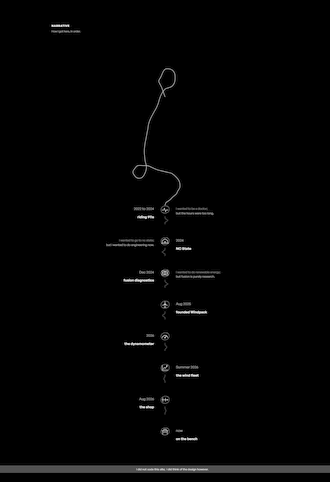
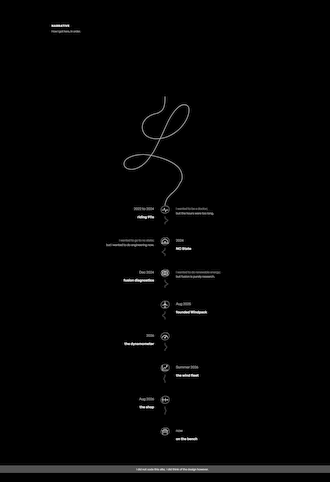
Trace the L off the reference, and catch the dot on the way down
The overture line is no longer a letter I drew. It is the centreline of the
copperplate capital in the reference image, thinned to a one pixel skeleton
and walked end to end, so the shape is the reference's exactly and the only
things left to decide are how big it sits and where.

The walk was the work. The letter crosses itself twice, so the skeleton is a
graph rather than a thread and a walk that just follows pixels turns off at
the first crossing it meets. Neighbour count is no help finding those
crossings: an eight connected skeleton gives a plain diagonal run three
neighbours, so most of the letter looks like a junction and the real ones do
not stand out. The crossing number does work. And a crossing does not thin to
a single pixel either, it comes out as two forks a few pixels apart with a
stub between them, so cutting only the marked pixels leaves the four arms
still joined through the stub. Taking everything within a few pixels of a
fork is what makes the X fall into arms, and the arms can then be paired by
which two carry straight on through.

The two strokes that are not the letter are one cubic each. An intermediate
knot is what put a wiggle in both: with the ends already carrying the
letter's own tangents there is nothing for a middle knot to do except
disagree. Placing the letter is not free either. Its entry tip has to sit
about 30px left of the dot, because the reference starts on a heading of 163
[…]

Changed region(s): [[0.3636, 0.1245, 0.5758, 0.4046], [0.4848, 0.4046, 0.5152, 0.4357]]

diff --git a/assets/css/site.css b/assets/css/site.css
@@ -680,8 +680,8 @@ body.split { overflow: hidden; }
 
    The whole sequence hangs off the moment they meet, which is 48% of 3.2s.
    Move that and the pop, the bounce, the draw and the run all have to move
-   with it, and the draw has to stay pinned to the 69% keyframe of the bounce
-   or the pen starts before the dot has left the ground.
+   with it, and the draw has to stay pinned to the END of the bounce, because
+   that is the frame the dot is caught on, still falling.
 
    Stage units are CSS pixels on purpose: the svg is drawn at its viewBox size
    so offset-path can use the very same d and land on it exactly.
@@ -746,7 +746,7 @@ body.split { overflow: hidden; }
 .ov-path {
   stroke-dasharray: 100;
   stroke-dashoffset: 100;
-  animation: ov-draw 6.4s cubic-bezier(0.25, 0.4, 0.65, 0.85) 3.83s both;
+  animation: ov-draw 6.4s cubic-bezier(0.32, 0.22, 0.62, 0.9) 4.64s both;
 }
 
 @keyframes ov-draw { to { stroke-dashoffset: 0; } }
@@ -765,16 +765,18 @@ body.split { overflow: hidden; }
   /* offset-anchor already puts the middle of this box on the line. the old
      -7px margin that used to do that job by hand is still a shift on top of
      it, which is why the dot rode 10px up and left of its own pen tip. */
-  offset-path: path("M200 150 C 200 150, 193.2 131.3, 190.6 123.9 C 188.7 118.6, 187.7 114.9, 185.6 110 C 183.1 104.2, 178.4 95.9, 176.2 91.5 C 175 89.1, 174.1 87.8, 173.5 85.9 C 173 84.1, 172.5 82.7, 172.9 80.4 C 173.7 76.1, 179.1 69.1, 182.1 63 C 185.3 56.4, 188.4 47.6, 191.3 42.2 C 193.3 38.5, 194.9 35.6, 197 33.2 C 198.7 31.3, 199.9 29.6, 202.5 28.7 C 206.9 27.2, 216.9 27.7, 222.5 29.2 C 227 30.5, 230.7 32.7, 233.9 35.8 C 237.3 39, 240.2 43.4, 242 48.4 C 244.1 54.4, 244.3 63.1, 244.2 69.6 C 244.2 75.2, 243.4 80.7, 242.2 85.2 C 241.3 88.8, 240.3 91.4, 238.4 94.5 C 236 98.4, 232.4 103, 228 106 C 222.9 109.4, 213.8 111.1, 208.8 113 C 205.5 114.3, 203.5 114.1, 200.7 116.3 C 195.7 120.2, 188.9 130.9, 184.7 138.6 C 180.7 145.7, 178.3 153.3, 175.8 160.5 C 173.5 167.2, 172.3 173.8, 170.1 180.2 C 167.8 186.6, 165.2 192.6, 162.1 198.9 C 158.7 205.8, 154.3 212.6, 150.3 219.9 C 146 227.8, 140.9 236.3, 137.3 244.6 C 133.7 252.6, 130.5 261.1, 128.5 269.1 C 126.6 276.5, 126.2 283.9, 125 291 C 123.8 297.7, 122.4 304, 121.1 310.6 C 119.9 317.5, 118.8 324.2, 117.4 331.5 C 115.9 339.5, 113.8 348.2, 112.5 356.9 C 111.2 365.9, 110 375.7, 109.8 384.7 C 109.6 393.2, 110.3 401.6, 111 409.5 C 111.6 416.8, 112.2 423.6, 113.5 430.4 C 114.6 437.1, 117.4 443.9, 118.2 449.9 C 118.8 454.8, 119.3 458.5, 118.6 463.7 C 117.6 470.8, 113.7 481.9, 110.6 488.2 C 108.3 492.7, 105.7 496.1, 103.1 498.9 C 101.1 501.1, 99.5 502.8, 96.9 504 C 93.7 505.4, 88.6 506.2, 84.8 505.8 C 81.4 505.6, 78.5 504.9, 75.4 502.8 C 70.8 499.6, 64.2 490.3, 62 486 C 60.8 483.8, 60.5 482.3, 60.3 480.4 C 60.2 478.4, 60.2 476.7, 61.1 474.3 C 62.7 470, 69.4 461.5, 72.4 457.8 C 74 455.7, 75 454.5, 76.6 453.3 C 78.1 452.1, 79.1 451.1, 81.5 450.4 C 86.6 449, 99.2 450.3, 106.9 450.4 C 113.4 450.5, 118.6 449.7, 124.9 451.1 C 132.4 452.7, 141.2 458.1, 148.9 461.3 C 156 464.3, 162.5 467.6, 169.3 469.8 C 175.8 471.8, 182.1 472.7, 188.7 474.3 C 195.5 475.9, 202.5 477.6, 209.4 479.4 C 216.1 481.1, 223.1 481.3, 229.5 484.7 C 236.9 488.6, 245 496.7, 250.6 502.7 C 255 507.4, 258.6 511.4, 261.1 516.9 C 263.8 523, 265.4 532.4, 265.6 538 C 265.7 541.7, 265.5 543.9, 264.3 547.3 C 262.6 552, 257.4 558.3, 254.9 562.9 C 253 566.5, 252.9 569.3, 250.5 572.7 C 246.8 577.7, 237.9 583.7, 232.8 588.6 C 228.6 592.7, 225.7 596.6, 221.8 599.9 C 218 603.1, 212.9 605.6, 209.7 608 C 207.4 609.7, 205.4 610.7, 204 612.7 C 202.4 614.9, 201.7 618.5, 201 620.6 C 200.6 622, 200 624, 200 624");
+  offset-path: path("M200 150 C 200 150, 200.1 164.9, 199.4 172.2 C 198.6 179.6, 197.7 187.7, 195.5 194 C 193.6 199.4, 191.7 203.9, 188 208 C 183.7 213, 176.4 217.6, 169.9 220.7 C 163.5 223.7, 156 224, 149.3 226.5 C 142.4 229.1, 135 232.2, 129 236.2 C 123.3 240, 118.1 244.4, 113.9 249.6 C 109.7 254.7, 105.6 260.8, 103.5 267.2 C 101.3 273.8, 100.4 281.9, 101.2 288.9 C 102.1 296, 104.9 303.7, 108.8 309.5 C 112.5 315.2, 117.6 320.1, 123.8 323.9 C 131 328.2, 141.3 331.3, 149.9 332.7 C 157.7 334, 165.1 333.4, 173 332.7 C 181.3 332, 190.4 330.7, 198.5 328.5 C 206.2 326.4, 213.3 323.6, 220.5 320.1 C 228.2 316.4, 236.1 311.7, 243.2 306.8 C 250.1 302, 256.5 296.7, 262.5 291 C 268.6 285.1, 274.2 278.8, 279.3 272 C 284.5 265, 289.7 257.2, 293.5 249.6 C 297 242.7, 299.9 234.6, 301.7 228.6 C 303 224.2, 303.6 220.8, 304.1 217 C 304.6 213.1, 305 209.1, 304.7 205.4 C 304.4 201.8, 303.9 197.9, 302.4 194.9 C 301 192, 298.6 189.3, 295.9 187.6 C 293.2 185.9, 289.5 185.1, 286.1 184.8 C 282.7 184.5, 279.4 184.8, 275.8 185.9 C 271.5 187.1, 267 189.5, 262.4 192.7 C 256.7 196.7, 250.2 203.1, 244.8 209.2 C 239.1 215.7, 233.9 223.2, 229.1 230.6 C 224.2 238, 219.5 246.1, 215.6 253.6 C 212 260.4, 209.4 266.5, 206.2 273.5 C 202.6 281.2, 198.9 289.9, 195.2 297.9 C 191.7 305.7, 188.3 313.1, 184.7 320.7 C 181.2 328.3, 177.5 336, 173.8 343.6 C 170.1 351.3, 166.6 358.8, 162.6 366.5 C 158.5 374.5, 154.3 382.7, 149.5 390.6 C 144.5 398.7, 138.4 407.1, 133.1 414.4 C 128.3 421, 124.2 427, 119 432.7 C 113.8 438.3, 108 443.7, 101.9 448.2 C 95.8 452.7, 89.1 456.9, 82.3 460 C 75.7 463, 67.5 465.4, 61.6 466.4 C 57.3 467.2, 53.9 467.1, 50.2 466.8 C 46.4 466.5, 42.6 465.8, 39.2 464.7 C 35.8 463.6, 32.5 462.1, 29.8 460.1 C 27.2 458.1, 24.8 455.4, 23.4 452.6 C 21.9 449.7, 21.1 446.2, 21.1 442.9 C 21.1 439.6, 22.1 436, 23.5 432.9 C 25 429.8, 27.4 427, 29.8 424.5 C 32.3 422, 34.7 420.2, 38.3 418.1 C 43.6 414.9, 51.7 411.2, 58.9 408.8 C 66.3 406.4, 74.2 404.7, 82 403.6 C 89.8 402.5, 97.4 401.9, 105.6 402 C 114.6 402.2, 125 403.6, 134 405 C 142.2 406.3, 149.8 408.1, 157.5 410 C 165 411.8, 172.1 413.7, 179.7 416 C 188 418.6, 197.5 421.8, 205.5 425.1 C 212.7 428.1, 219 431.1, 225.5 434.6 C 231.9 438.1, 238.3 441.5, 244.3 446 C 250.6 450.8, 257.3 456.1, 262.1 462.6 C 267 469.2, 270.9 478.3, 273 485.5 C 274.7 491.4, 274.9 498.3, 274.9 502.5 C 275 504.9, 274.8 506, 274.4 508.1 C 273.7 511, 272.5 515, 271.1 518.1 C 269.7 521, 267.9 522.8, 266 526.1 C 262.9 531.1, 259.2 539.2, 255 545.2 C 250.7 551.2, 245.5 556.5, 240.4 561.8 C 235.2 567.2, 229.2 571.7, 224.1 577.1 C 219.1 582.4, 213.7 587.7, 209.9 593.9 C 206.2 600.1, 203.2 608.6, 201.6 614.2 C 200.5 618, 200 624, 200 624");
   offset-rotate: 0deg;
   offset-anchor: 50% 50%;
   offset-distance: 0%;
   /* the same duration, delay and easing as .ov-path above, always. they are
      two animations drawing one line, and any daylight between them is the dot
-     coming off the pen. The easing is gentler out than it was: this line ends
-     in a long straight, and the old curve spent half its time on the last
-     fifth of the length, which read as the dot labouring down the tail. */
-  animation: ov-run 6.4s cubic-bezier(0.25, 0.4, 0.65, 0.85) 3.83s both;
+     coming off the pen. The easing opens gently on purpose: the dot arrives
+     off the third hop at about 140px a second and this curve starts at about
+     150, so the pen picks it up at the speed it was already going. Start it
+     any harder and the handoff reads as a jump however well the positions
+     line up. */
+  animation: ov-run 6.4s cubic-bezier(0.32, 0.22, 0.62, 0.9) 4.64s both;
 }
 
 @keyframes ov-run { to { offset-distance: 100%; } }
@@ -794,19 +796,22 @@ body.split { overflow: hidden; }
   border-radius: 50%;
   background: var(--text);
   transform: scale(0);
-  /* the dot leaves only once the line has landed: the run ends at 3.83 +
-     6.4 = 10.23s, and it holds on the rail a quarter second before it goes.
+  /* the dot leaves only once the line has landed: the run ends at 4.64 +
+     6.4 = 11.04s, and it holds on the rail a quarter second before it goes.
      Fading it any earlier and it thins out to nothing halfway down the last
      straight, which now runs 234px and is the easiest stretch to watch. */
   animation: ov-pop 0.34s cubic-bezier(0.2, 1.5, 0.4, 1) 1.54s both,
-             ov-leave 0.55s ease 10.48s both;
+             ov-leave 0.55s ease 11.29s both;
 }
 
 @keyframes ov-pop   { to { transform: scale(1); } }
 @keyframes ov-leave { to { opacity: 0; } }
 
-/* Three hops. A small one, a slightly bigger one, and a third that never comes
-   down, because at 69% (3.83s in) the pen picks it up and the path takes over.
+/* Three hops. A small one, a slightly bigger one, and a third the dot never
+   gets to finish: it comes off the top of that one still falling, and the pen
+   takes it at 100%, on the way down, which is why the line starts by falling
+   too. The handoff used to be at the 69% keyframe, on the way up, so the dot
+   stopped dead at the top of the hop before the drawing began.
 
    What makes it read as weight rather than a pulse: each hop rises on an ease
    out quad and falls on an ease in quad, which is the exact shape of gravity,
@@ -837,6 +842,8 @@ body.split { overflow: hidden; }
              animation-timing-function: cubic-bezier(0.15, 0.85, 0.35, 1); }
   69%      { transform: translateY(-4px) scale(0.8, 1.24);
              animation-timing-function: cubic-bezier(0.25, 0.55, 0.4, 1); }
+  88%      { transform: translateY(-22px) scale(1, 1);
+             animation-timing-function: cubic-bezier(0.33, 0, 0.66, 0.33); }
   100%     { transform: translateY(0) scale(1, 1); }
 }
 

diff --git a/index.html b/index.html
@@ -169,7 +169,7 @@
            alt="My other parent" />
 
       <svg class="ov-draw" viewBox="0 0 400 620" width="400" height="620" fill="none" aria-hidden="true">
-        <path class="ov-path" pathLength="100" d="M200 150 C 200 150, 193.2 131.3, 190.6 123.9 C 188.7 118.6, 187.7 114.9, 185.6 110 C 183.1 104.2, 178.4 95.9, 176.2 91.5 C 175 89.1, 174.1 87.8, 173.5 85.9 C 173 84.1, 172.5 82.7, 172.9 80.4 C 173.7 76.1, 179.1 69.1, 182.1 63 C 185.3 56.4, 188.4 47.6, 191.3 42.2 C 193.3 38.5, 194.9 35.6, 197 33.2 C 198.7 31.3, 199.9 29.6, 202.5 28.7 C 206.9 27.2, 216.9 27.7, 222.5 29.2 C 227 30.5, 230.7 32.7, 233.9 35.8 C 237.3 39, 240.2 43.4, 242 48.4 C 244.1 54.4, 244.3 63.1, 244.2 69.6 C 244.2 75.2, 243.4 80.7, 242.2 85.2 C 241.3 88.8, 240.3 91.4, 238.4 94.5 C 236 98.4, 232.4 103, 228 106 C 222.9 109.4, 213.8 111.1, 208.8 113 C 205.5 114.3, 203.5 114.1, 200.7 116.3 C 195.7 120.2, 188.9 130.9, 184.7 138.6 C 180.7 145.7, 178.3 153.3, 175.8 160.5 C 173.5 167.2, 172.3 173.8, 170.1 180.2 C 167.8 186.6, 165.2 192.6, 162.1 198.9 C 158.7 205.8, 154.3 212.6, 150.3 219.9 C 146 227.8, 140.9 236.3, 137.3 244.6 C 133.7 252.6, 130.5 261.1, 128.5 269.1 C 126.6 276.5, 126.2 283.9, 125 291 C 123.8 297.7, 122.4 304, 121.1 310.6 C 119.9 317.5, 118.8 324.2, 117.4 331.5 C 115.9 339.5, 113.8 348.2, 112.5 356.9 C 111.2 365.9, 110 375.7, 109.8 384.7 C 109.6 393.2, 110.3 401.6, 111 409.5 C 111.6 416.8, 112.2 423.6, 113.5 430.4 C 114.6 437.1, 117.4 443.9, 118.2 449.9 C 118.8 454.8, 119.3 458.5, 118.6 463.7 C 117.6 470.8, 113.7 481.9, 110.6 488.2 C 108.3 492.7, 105.7 496.1, 103.1 498.9 C 101.1 501.1, 99.5 502.8, 96.9 504 C 93.7 505.4, 88.6 506.2, 84.8 505.8 C 81.4 505.6, 78.5 504.9, 75.4 502.8 C 70.8 499.6, 64.2 490.3, 62 486 C 60.8 483.8, 60.5 482.3, 60.3 480.4 C 60.2 478.4, 60.2 476.7, 61.1 474.3 C 62.7 470, 69.4 461.5, 72.4 457.8 C 74 455.7, 75 454.5, 76.6 453.3 C 78.1 452.1, 79.1 451.1, 81.5 450.4 C 86.6 449, 99.2 450.3, 106.9 450.4 C 113.4 450.5, 118.6 449.7, 124.9 451.1 C 132.4 452.7, 141.2 458.1, 148.9 461.3 C 156 464.3, 162.5 467.6, 169.3 469.8 C 175.8 471.8, 182.1 472.7, 188.7 474.3 C 195.5 475.9, 202.5 477.6, 209.4 479.4 C 216.1 481.1, 223.1 481.3, 229.5 484.7 C 236.9 488.6, 245 496.7, 250.6 502.7 C 255 507.4, 258.6 511.4, 261.1 516.9 C 263.8 523, 265.4 532.4, 265.6 538 C 265.7 541.7, 265.5 543.9, 264.3 547.3 C 262.6 552, 257.4 558.3, 254.9 562.9 C 253 566.5, 252.9 569.3, 250.5 572.7 C 246.8 577.7, 237.9 583.7, 232.8 588.6 C 228.6 592.7, 225.7 596.6, 221.8 599.9 C 218 603.1, 212.9 605.6, 209.7 608 C 207.4 609.7, 205.4 610.7, 204 612.7 C 202.4 614.9, 201.7 618.5, 201 620.6 C 200.6 622, 200 624, 200 624"
+        <path class="ov-path" pathLength="100" d="M200 150 C 200 150, 200.1 164.9, 199.4 172.2 C 198.6 179.6, 197.7 187.7, 195.5 194 C 193.6 199.4, 191.7 203.9, 188 208 C 183.7 213, 176.4 217.6, 169.9 220.7 C 163.5 223.7, 156 224, 149.3 226.5 C 142.4 229.1, 135 232.2, 129 236.2 C 123.3 240, 118.1 244.4, 113.9 249.6 C 109.7 254.7, 105.6 260.8, 103.5 267.2 C 101.3 273.8, 100.4 281.9, 101.2 288.9 C 102.1 296, 104.9 303.7, 108.8 309.5 C 112.5 315.2, 117.6 320.1, 123.8 323.9 C 131 328.2, 141.3 331.3, 149.9 332.7 C 157.7 334, 165.1 333.4, 173 332.7 C 181.3 332, 190.4 330.7, 198.5 328.5 C 206.2 326.4, 213.3 323.6, 220.5 320.1 C 228.2 316.4, 236.1 311.7, 243.2 306.8 C 250.1 302, 256.5 296.7, 262.5 291 C 268.6 285.1, 274.2 278.8, 279.3 272 C 284.5 265, 289.7 257.2, 293.5 249.6 C 297 242.7, 299.9 234.6, 301.7 228.6 C 303 224.2, 303.6 220.8, 304.1 217 C 304.6 213.1, 305 209.1, 304.7 205.4 C 304.4 201.8, 303.9 197.9, 302.4 194.9 C 301 192, 298.6 189.3, 295.9 187.6 C 293.2 185.9, 289.5 185.1, 286.1 184.8 C 282.7 184.5, 279.4 184.8, 275.8 185.9 C 271.5 187.1, 267 189.5, 262.4 192.7 C 256.7 196.7, 250.2 203.1, 244.8 209.2 C 239.1 215.7, 233.9 223.2, 229.1 230.6 C 224.2 238, 219.5 246.1, 215.6 253.6 C 212 260.4, 209.4 266.5, 206.2 273.5 C 202.6 281.2, 198.9 289.9, 195.2 297.9 C 191.7 305.7, 188.3 313.1, 184.7 320.7 C 181.2 328.3, 177.5 336, 173.8 343.6 C 170.1 351.3, 166.6 358.8, 162.6 366.5 C 158.5 374.5, 154.3 382.7, 149.5 390.6 C 144.5 398.7, 138.4 407.1, 133.1 414.4 C 128.3 421, 124.2 427, 119 432.7 C 113.8 438.3, 108 443.7, 101.9 448.2 C 95.8 452.7, 89.1 456.9, 82.3 460 C 75.7 463, 67.5 465.4, 61.6 466.4 C 57.3 467.2, 53.9 467.1, 50.2 466.8 C 46.4 466.5, 42.6 465.8, 39.2 464.7 C 35.8 463.6, 32.5 462.1, 29.8 460.1 C 27.2 458.1, 24.8 455.4, 23.4 452.6 C 21.9 449.7, 21.1 446.2, 21.1 442.9 C 21.1 439.6, 22.1 436, 23.5 432.9 C 25 429.8, 27.4 427, 29.8 424.5 C 32.3 422, 34.7 420.2, 38.3 418.1 C 43.6 414.9, 51.7 411.2, 58.9 408.8 C 66.3 406.4, 74.2 404.7, 82 403.6 C 89.8 402.5, 97.4 401.9, 105.6 402 C 114.6 402.2, 125 403.6, 134 405 C 142.2 406.3, 149.8 408.1, 157.5 410 C 165 411.8, 172.1 413.7, 179.7 416 C 188 418.6, 197.5 421.8, 205.5 425.1 C 212.7 428.1, 219 431.1, 225.5 434.6 C 231.9 438.1, 238.3 441.5, 244.3 446 C 250.6 450.8, 257.3 456.1, 262.1 462.6 C 267 469.2, 270.9 478.3, 273 485.5 C 274.7 491.4, 274.9 498.3, 274.9 502.5 C 275 504.9, 274.8 506, 274.4 508.1 C 273.7 511, 272.5 515, 271.1 518.1 C 269.7 521, 267.9 522.8, 266 526.1 C 262.9 531.1, 259.2 539.2, 255 545.2 C 250.7 551.2, 245.5 556.5, 240.4 561.8 C 235.2 567.2, 229.2 571.7, 224.1 577.1 C 219.1 582.4, 213.7 587.7, 209.9 593.9 C 206.2 600.1, 203.2 608.6, 201.6 614.2 C 200.5 618, 200 624, 200 624"
               stroke="currentColor" stroke-width="1.7" stroke-linecap="round"
               vector-effect="non-scaling-stroke" />
       </svg>

diff --git a/README.md b/README.md
@@ -44,46 +44,58 @@ line is generated by `.claude/make_overture_path.py`, which prints the `d` strin
 to be pasted in **two** places that must stay identical, or the dot will drift off the
 line: the `.ov-path` `d` in `index.html` and the `offset-path` in `site.css`.
 
-The line is a **cursive capital L**, written in one stroke and then run down onto the
-timeline rail. It is a copperplate capital: two loops joined by a spine.
+The line is a **capital L**, and it is not drawn by hand. It is the centreline of a real
+copperplate capital, traced off `.claude/capital_l_reference.jpg` and baked into
+`.claude/capital_l_trace.py` by
 
-    the head    up out of the dot, over the top, and back down across the upstroke.
-                the crossing is what makes it a loop rather than a hook
-    the spine   the long fall, bowing left like the left side of a big oval
-    the foot    a small curl at the bottom left, then out across the spine and away
-                to the right, which is the stroke that makes the letter an L
-    the tail    the end of the flourish turning down and running onto the rail
+```
+python .claude/trace_capital_l.py > .claude/capital_l_trace.py
+```
 
-A letter is placed, not derived, so the generator is a spline through knots rather than a
-curvature program: each knot carries a position and the heading the pen has going through
-it, and consecutive knots are joined by the one cubic that leaves on the first heading and
-arrives on the second. That is G1 by construction. The script prints a report with it, and
-it is the report rather than the picture that catches what goes wrong:
+which thins the filled glyph to a one pixel skeleton and walks it end to end. The walk is
+the only hard part. The letter crosses itself twice, so the skeleton is a graph and not a
+thread, and a walk that just follows pixels turns off at the first crossing. Two things it
+took a while to get right:
 
-- **A knot where the radius jumps** is a knot the eye reads as a corner even though the
-  tangents match. Over about 3x is worth moving, over 20x is visible. The terminal
-  turning down off the foot is the one that wants watching.
-- **The letter has to cross itself twice**, once at the neck of the head and once where
-  the foot comes back over the spine. The report says where. If it says `nowhere`, the
-  loops have opened into hooks and it is not a letter any more.
+- **Neighbour count does not find the crossings.** An eight connected skeleton gives a
+  plain diagonal run three neighbours, so most of the letter looks like a junction. The
+  crossing number, the count of 0 to 1 transitions round the eight neighbours, does work.
+- **A crossing does not thin to one pixel.** It comes out as two forks a few pixels apart
+  with a stub between them, so cutting only the marked pixels leaves the four arms still
+  joined through the stub. Taking everything within `NODE` of a fork is what makes the X
+  fall into four arms, which can then be paired by which two carry straight on through.
 
-Two knots are not free: the first is where the two of them met and left the dot, the last
-is where the rail picks the line up, and the letter is fitted between them. What took
-longest to get right is that a script L's foot is a **long horizontal sweep**, not a round
-loop. Drawn as a loop, the whole thing reads as a treble clef.
+So the shape of the L is the reference's exactly, and `make_overture_path.py` only decides
+how big it sits, where, and the two strokes that are not part of the letter. Neither
+placement number is free. The entry tip has to sit about 30px **left** of the dot, because
+the reference starts on a heading of 163 degrees, very nearly straight left; a fall that
+lands directly under the dot has to swing out right and come back to arrive on that
+heading, and the swing is a visible kink. The scale is then bounded by what is left: the
+tail tip needs height below it to straighten onto the rail, and the base loop needs a
+margin on the left.
 
-Then it comes back off its own ideal, because nothing drawn by hand sits on one. It is
-sampled at a spacing that follows how hard it is turning, every sample is pushed sideways
-by a little noise, and a centripetal Catmull Rom runs through what is left. The noise is
-in **arc length, not sample index**, so the wobble keeps a wavelength in pixels whether it
-lands on the foot curl, where the samples are 7px apart, or on the spine, where they are
-24px. It tapers to nothing at both ends, so the dot still leaves the bounce straight up
-and still meets the rail straight down.
+Both joining strokes are a single cubic. An intermediate knot is what put a wiggle in both
+of them: with the ends already carrying the letter's own tangents there is nothing left for
+a middle knot to do except disagree.
 
-The opening is timed off one moment: the two portraits meeting, at 48% of 3.2s. The pop,
-the bounce, the draw and the run all hang off it, and the draw is pinned to the 69%
-keyframe of the bounce, or the pen starts before the dot has left the ground. The dot's
-fade waits for the line to land rather than thinning out halfway down the last stroke.
+There is no wobble on it. The line this replaced was a hand drawn one and was jittered to
+match, but a letter is either the shape or it is not.
+
+**The dot is caught on the way down.** It used to stop dead at the top of its third hop and
+the pen would start drawing from a standstill. Now the third hop is a real one: the dot
+comes off the top of it still falling, the bounce ends with it back on the line and moving,
+and the pen takes it there, which is why the line starts by falling. The drop out of the
+bounce and the entry stroke of the L are one movement.
+
+That only reads if the speeds match as well as the positions. The dot arrives off the hop
+at about 140px a second, so the run's easing opens at about 150 rather than the 350 a
+sharper curve would give. Start it any harder and the handoff reads as a jump however well
+the positions line up.
+
+The opening hangs off one moment: the two portraits meeting, at 48% of 3.2s. The pop, the
+bounce, the draw and the run all follow from it, and the draw is pinned to the **end** of
+the bounce, because that is the frame the dot is caught on. The dot's fade waits for the
+line to land rather than thinning out part way down the last stroke.
 
 The seven connectors between the timeline beats are generated too, by
 `.claude/make_timeline_links.py`, and they are not decoration. The first three are **sharp
